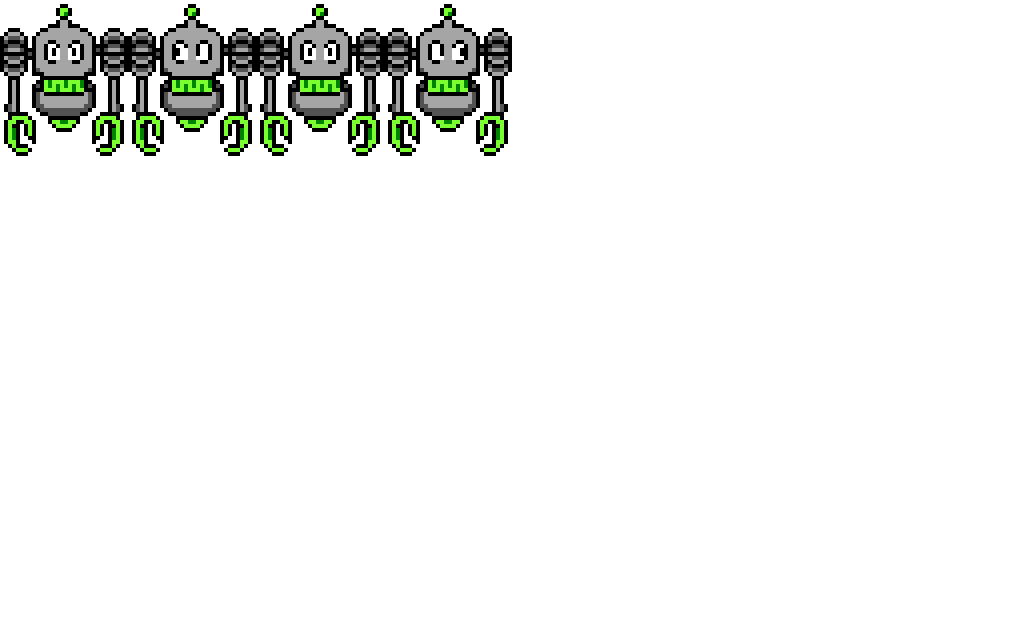
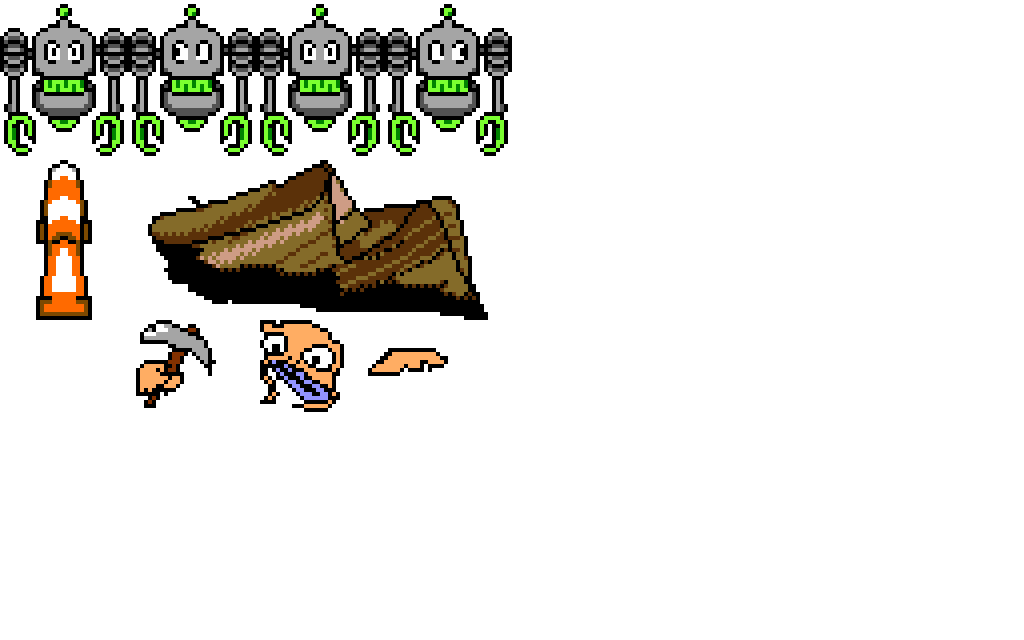
added dialog choice support + content

Changed region(s): [[0.125, 0.25, 0.5, 0.6562], [0.0312, 0.25, 0.0938, 0.5], [0.125, 0.5, 0.2188, 0.6562]]

diff --git a/js/worldmap/worldmap.js b/js/worldmap/worldmap.js
@@ -4,7 +4,7 @@ var worldmap = {
     animData: new MapAnim("mapplayer", 0, 0, 16, 20, 2),
     mapName: "", fullAnimIdx: 0,
     entities: [], importantEntities: {},
-    inDialogue: false, dialogState: 0,
+    inDialogue: false, dialogState: 0, dialogData: null, forceEndDialog: false,
     waitForAnimation: false, animIdx: 0, 
     setup: function(args) {
         this.inDialogue = false;
@@ -12,6 +12,8 @@ var worldmap = {
         this.dialogState = 0;
         this.mapName = args.map;
         this.pos = args.init;
+        this.dialogData = null;
+        this.forceEndDialog = false;
         this.importantEntities = {};
         if(!args.noEntityUpdate) {
             if(mapentities[this.mapName] !== undefined) {
@@ -122,10 +124,18 @@ var worldmap = {
         if(idx >= 0) { this.entities.splice(idx, 1); }
         game.target = null;
     },
-    writeText: function(t) {
-        gfx.clearSome(["menuA", "menutext"]);
+    writeText: function(t, choices, isRefresh) {
+        gfx.clearSome(["menuA", "menutext", "menucursorA"]);
         gfx.drawFullbox();
         gfx.drawFullText(t);
+        if(choices === undefined) {
+            worldmap.dialogData = null;
+            return;
+        }
+        if(!isRefresh) { worldmap.dialogData = { choices: choices, text: t, idx: 0 }; }
+        for(var i = 0; i < choices.length; i++) {
+            gfx.drawChoice(2.5 + i, choices[i], worldmap.dialogData.idx === i);
+        }
     },
     mouseMove: function(pos) { return true; },
     finishAnimation: function() {
@@ -135,23 +145,48 @@ var worldmap = {
     },
     click: function(pos) {
         if(!this.inDialogue || this.waitForAnimation) { return false; }
+        var idx = (this.dialogData === null ? undefined : this.dialogData.idx);
         this.dialogState++;
-        if(game.target == null || this.dialogState >= game.target.interact.length) {
+        if(worldmap.forceEndDialog || game.target == null || this.dialogState >= game.target.interact.length) {
             this.finishDialog();
             return true;
         }
         if(game.target.failed && game.target.failedInteract !== undefined) {
-            return game.target.failedInteract[this.dialogState]();
+            return game.target.failedInteract[this.dialogState](idx);
         } else {
-            return game.target.interact[this.dialogState]();
+            return game.target.interact[this.dialogState](idx);
         }
     },
     finishDialog: function() {
         gfx.clearSome(["menuA", "menutext"]);
+        this.forceEndDialog = false;
         this.inDialogue = false;
         this.fullAnimIdx = setInterval(worldmap.moveEntities, 10);
     },
+    handleMenuChoices: function(key) {
+        var dy = 0;
+        switch(key) {
+            case "w": dy--; break;
+            case "s": dy++; break;
+            case " ":
+            case "Enter": return this.click(null);
+        }
+        var newchoice = worldmap.dialogData.idx + dy;
+        if(newchoice < 0) { newchoice = 0; }
+        if(newchoice >= worldmap.dialogData.choices.length) { newchoice = worldmap.dialogData.choices.length - 1; }
+        worldmap.dialogData.idx = newchoice;
+        worldmap.writeText(worldmap.dialogData.text, worldmap.dialogData.choices, true);
+    },
     keyPress: function(key) {
+        if(this.inDialogue) {
+            this.freeMovement = false;
+            input.clearAllKeys();
+            if(this.dialogData === null) { 
+                return (key === " " || key === "Enter") ? this.click(null) : false;
+            }
+            return this.handleMenuChoices(key);
+        }
+        this.freeMovement = true;
         var pos = { x: this.pos.x, y: this.pos.y };
         var isEnter = false;
         var moveSpeed = 0.25;
@@ -179,13 +214,6 @@ var worldmap = {
                 game.transition(this, pausemenu);
                 return;
         }
-        if(this.inDialogue) {
-            if(isEnter) {
-                return this.click(null);
-            } else {
-                return false;
-            }
-        }
         var newPos = {
             x: Math.round(pos.x),
             y: Math.round(pos.y)
@@ -212,8 +240,9 @@ var worldmap = {
             for(var i = 0; i < this.entities.length; i++) {
                 var e = this.entities[i];
                 if(worldmap.isCollision(e, newPos) && e.interact !== undefined) {
-                    e.dir = this.invertDir(this.playerDir);
+                    if(!e.noChange) { e.dir = this.invertDir(this.playerDir); }
                     this.inDialogue = true;
+                    this.forceEndDialog = false;
                     clearInterval(this.fullAnimIdx);
                     this.dialogState = 0;
                     game.target = e;
@@ -230,6 +259,7 @@ var worldmap = {
                 var e = this.entities[i];
                 if(!e.solid && (e.pos.x == newPos.x || e.isRow) && (e.pos.y == newPos.y || e.isColumn) && e.interact !== undefined) {
                     this.inDialogue = true;
+                    this.forceEndDialog = false;
                     this.dialogState = 0;
                     game.target = e;
                     if(e.failed && e.failedInteract !== undefined) {

diff --git a/js/worldmap/entities.js b/js/worldmap/entities.js
@@ -216,6 +216,32 @@ var mapentities = {
         ])
     ],
     "underwater": [
-        SwitchMap("GoAboveGround", 42, 20, false, false, 11, 17, "bridge")
+        SwitchMap("GoAboveGround", 42, 20, false, false, 11, 17, "bridge"),
+        GetCommonEntity("ShipLeft", 15, 3, 1, 0, undefined, undefined, { big: true, sy: 1 }),
+        GetCommonEntity("ShipMiddle", 17, 3, 1, 1, undefined, undefined, { big: true, sy: 1 }),
+        GetCommonEntity("ShipRight", 19, 3, 1, 2, undefined, undefined, { big: true, sy: 1 }),
+        GetCommonEntity("SeaLeft", 15, 3, 1, 0, undefined, undefined, { big: true, sy: 2 }),
+        GetCommonEntity("SeaMiddle", 17, 3, 1, 1, undefined, [
+            function() {
+                if(player.hasQuest("helpSeaMonster")) {
+                    worldmap.writeText("hey thanks for helping me out crombro");
+                    worldmap.forceEndDialog = true;
+                } else {
+                    worldmap.writeText("hi do you want to help me", ["sure why the fuck", "eat shit or die trying, poopslut"]);
+                }
+            },
+            function(idx) {
+                if(idx === 0) {
+                    worldmap.writeText("sick thanks man");
+                    player.activeQuests["helpSeaMonster"] = 0;
+                    worldmap.forceEndDialog = true;
+                } else {
+                    worldmap.writeText("you first asshole");
+                }
+            }, function() {
+                combat.startBattle(["seaHandR", "seaMan", "seaHandL"]);
+            }
+        ], { big: true, sy: 2, noChange: true }),
+        GetCommonEntity("SeaRight", 19, 3, 1, 2, undefined, undefined, { big: true, sy: 2 })
     ]
 };

diff --git a/js/rendering.js b/js/rendering.js
@@ -119,6 +119,12 @@ var gfx = {
         gfx.ctx["menutext"].font = "22px PressStart2P";
         return gfx.ctx["menutext"].measureText(t).width;
     },
+    drawChoice: function(y, t, selected) {
+        var tile = selected ? 9 : 7;
+        for(var x = 0; x < 15; x++) { gfx.drawSprite("sheet", tile, 11, x * 16, y * 16 - 8, "menuA"); }
+        if(selected) { gfx.drawCursor(0, y - 0.5, 14, -0.25); }
+        gfx.drawText(t, 8, y * 16);
+    },
     drawText: function(t, x, y, color) {
         gfx.ctx["menutext"].font = "22px PressStart2P";
         gfx.ctx["menutext"].fillStyle = (color || "#000000");

diff --git a/js/worldmap/entityHelpers.js b/js/worldmap/entityHelpers.js
@@ -31,7 +31,7 @@ function GetCommonEntity(name, x, y, firstx, dir, movement, interact, additional
     if(big) { res.anim.big = true; }
     return Object.assign(res, additional);
 };
-function GetSpeak(t) { return function() { worldmap.writeText(t); }  }
+function GetSpeak(t, choices) { return function() { worldmap.writeText(t, choices); }  }
 function GetFight(arr) { return function() { combat.startBattle(arr); } }
 
 var commonInteractArrays = {
